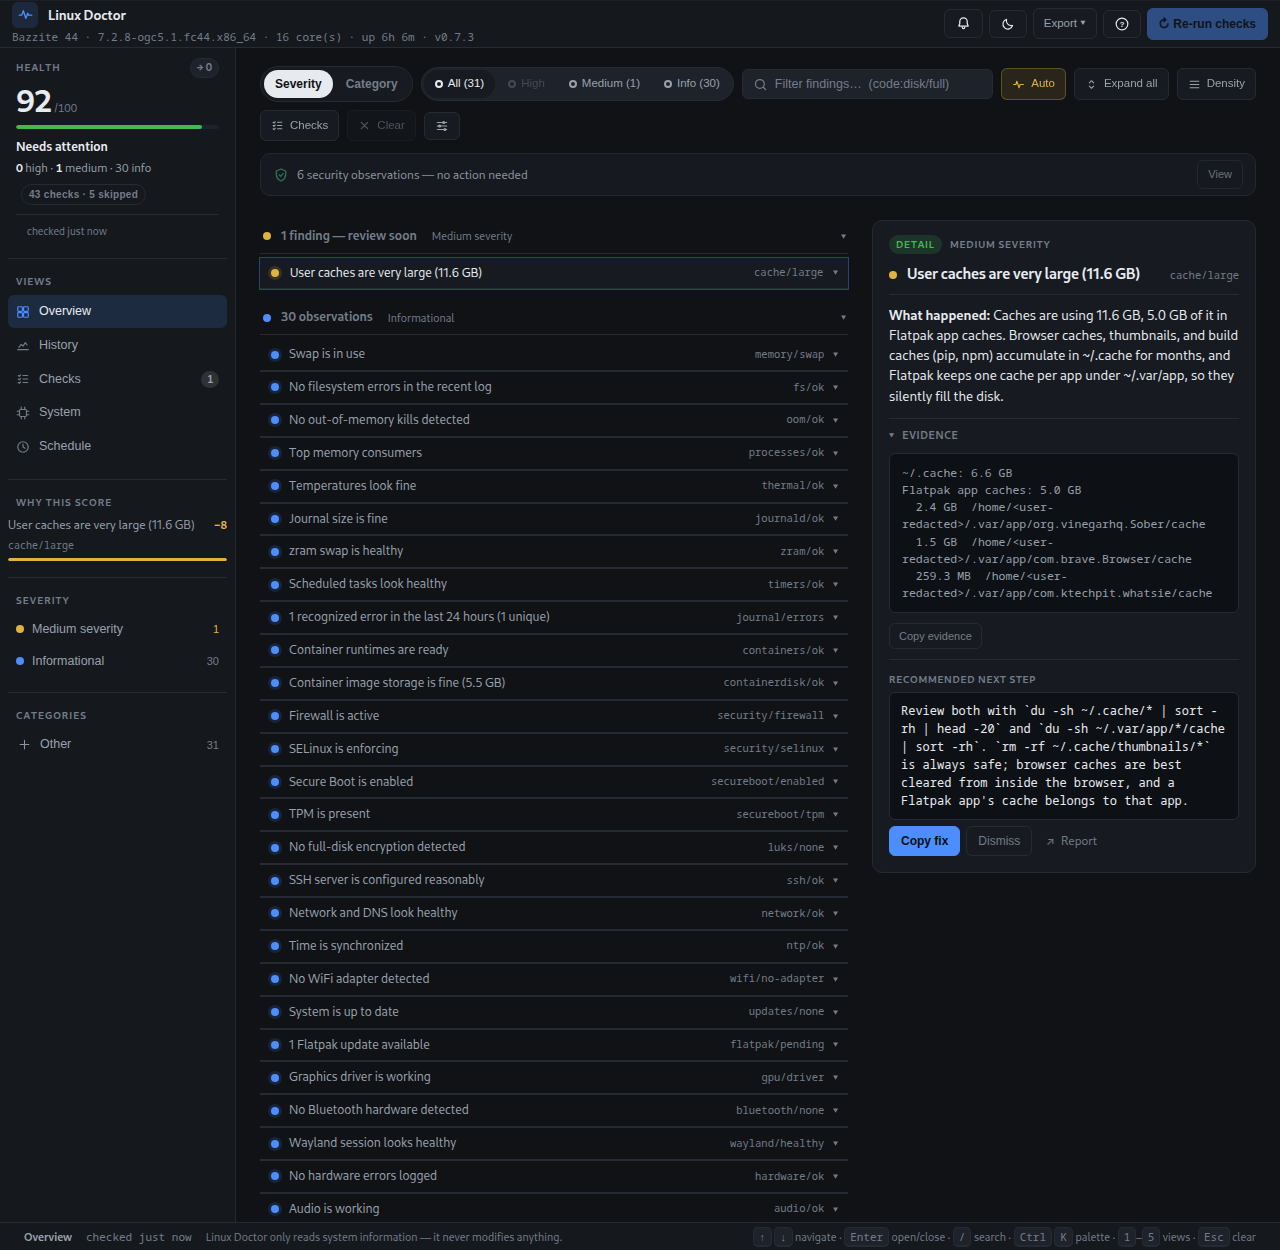
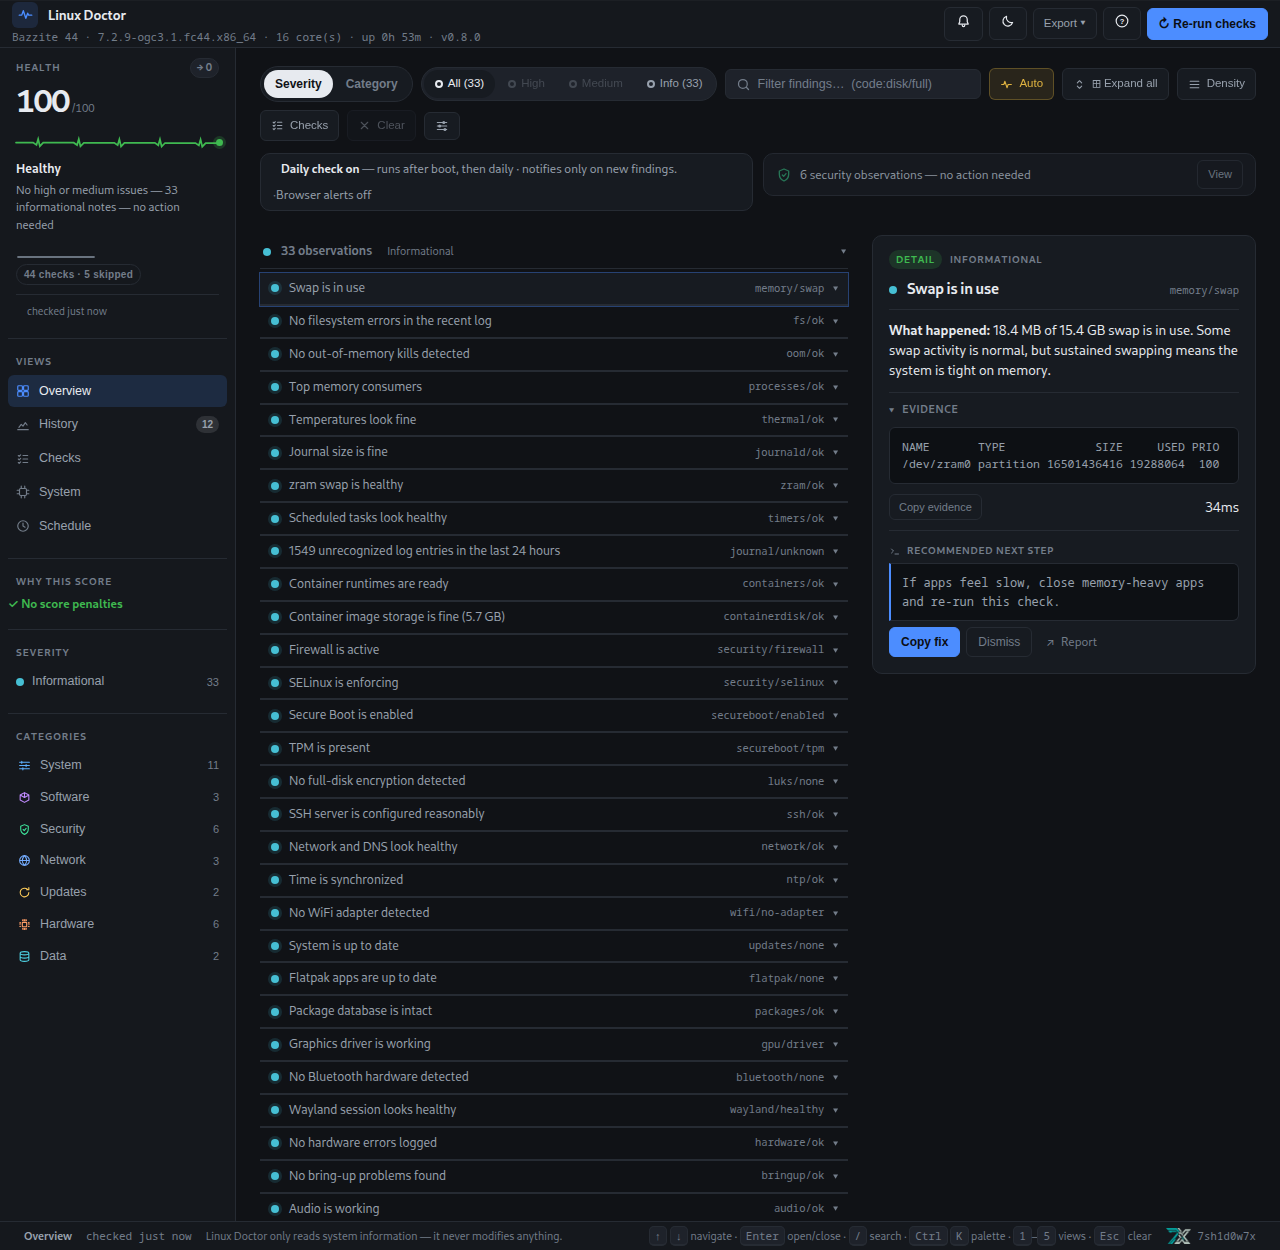
fix(packages): a depsolve that never finished, and a 4x faster Re-run
`packages` ran `dnf check` — a full depsolve of every installed package,
~15s on a 2900-package image — under the generic 8s command cap. On
Fedora systems the probe was killed and the check answered nothing at
all, while still costing the full 8s of every run.

It gets the package-manager budget now, so it can finish and tell the
truth. A clean depsolve is cached for ten minutes
(LINUX_DOCTOR_PACKAGES_TTL_MS; 0 disables) — bad news is never cached, so
a broken or locked database is re-probed on every run and a fix shows up
on the next click. The apt path probes the lock first, since a lock is a
live, seconds-long fact worth 40ms.

On immutable images (Bazzite, Silverblue, bootc) the depsolve is not run
at all: the package set is a signed, pre-solved image and rpm-ostree
refuses a transaction it cannot solve, so `dnf check` could only
re-confirm the image build. The check verifies the RPM database instead
and says so in its evidence. Real scans only — a stub runner never
touches the cache, so fixtures and tests stay independent of the host.

A full refresh on the reference machine: ~8.6s -> ~2.2s.

diff --git a/src/checks/packages.js b/src/checks/packages.js
@@ -1,7 +1,45 @@
 // SPDX-License-Identifier: GPL-3.0-or-later
-import { lines } from "../utils.js";
+import { lines, run as realRun, TIMEOUT_MS } from "../utils.js";
+import { readCache, writeCache } from "../cache.js";
 import { defineCheck } from "./define.js";
 import { finding } from "../findings.js";
+
+/**
+ * A full depsolve of every installed package — `dnf check` here takes ~15 s of
+ * CPU on a 2 900-package Fedora image, and `apt-get check` is the same kind of
+ * work. It is the single longest probe in a run: everything else finishes in
+ * under two seconds, so this one check decides how long "Re-run" takes.
+ *
+ * The answer only changes when a package transaction leaves the database
+ * inconsistent, so a CLEAN result is cached for 10 minutes (override
+ * LINUX_DOCTOR_PACKAGES_TTL_MS; 0 disables). Bad news is never cached: a
+ * broken or locked database is re-probed on every run, so a fix shows up on
+ * the next click instead of trailing a stale high for the length of the TTL.
+ * Same contract as the `updates` check's metadata cache — a bonus, never a
+ * dependency: an unwritable cache means the probe simply runs.
+ */
+const PACKAGES_CACHE_MS = 10 * 60 * 1000;
+
+function packagesCacheTtl() {
+  const ttl = Number(process.env.LINUX_DOCTOR_PACKAGES_TTL_MS || PACKAGES_CACHE_MS);
+  return Number.isFinite(ttl) && ttl > 0 ? ttl : 0;
+}
+
+/** Cache only a clean result; writeCache never throws. */
+function remember(findings, ttlMs) {
+  if (ttlMs && findings.every((f) => f.severity === "info")) writeCache("packages", findings);
+  return findings;
+}
+
+/**
+ * The cache is for real scans only. Tests and fixture replays hand the check a
+ * stub runner, and a cache shared with them would make their assertions depend
+ * on the developer's machine (and let a fixture's "healthy" land in the real
+ * cache). Identity against the imported runner is the one signal the check has.
+ */
+function cacheTtlFor(ctx) {
+  return ctx.run === realRun ? packagesCacheTtl() : 0;
+}
 
 /**
  * `apt-get check` refusing the dpkg frontend lock. These lines say nothing
@@ -52,24 +90,70 @@ export const packages = defineCheck({
   async run(ctx) {
     const findings = [];
     const { pkg, family } = ctx.dist || {};
+    const ttlMs = cacheTtlFor(ctx);
+    const cached = ttlMs ? readCache("packages", ttlMs) : null;
+
+    // Immutable / atomic systems (Bazzite, Silverblue, bootc): the installed
+    // package set is a signed, pre-solved image, and layered packages arrive
+    // through rpm-ostree, which refuses a transaction it cannot solve. A full
+    // depsolve of ~3 000 packages (`dnf check`, 15 s here) can only re-confirm
+    // what the image build already guaranteed — while being slow enough to hit
+    // the command cap and answer nothing at all. Verify the database itself,
+    // which takes half a second, and say exactly what was not run.
+    if (ctx.dist && ctx.dist.imageBased) {
+      if (cached) return cached;
+      const verify = await ctx.run("rpm --verifydb 2>&1");
+      if (!verify.ok) return findings; // unreadable database: claim nothing
+      findings.push(finding({
+        severity: "info",
+        code: "packages/ok",
+        title: "Package database is intact",
+        detail: "This is an immutable system: packages come from a pre-solved image and rpm-ostree refuses transactions it cannot solve, so the full dependency check is not run. The local RPM database verified clean.",
+        evidence: "rpm --verifydb: ok \u00b7 dependency check: not run on immutable systems",
+        fix: null,
+        confidence: "high",
+      }));
+      return remember(findings, ttlMs);
+    }
 
     // Debian/Ubuntu family
     if (pkg === "apt" || family === "debian") {
-      const [dpkgAudit, aptCheck, lockRes] = await Promise.all([
-        ctx.run("dpkg --audit 2>&1 | head -20"),
-        ctx.run("apt-get check 2>&1 | head -20"),
-        // Lock probe. Holders in our own process group are skipped: `apt-get
-      // check` below takes the same frontend lock, and the `updates` and
-      // `orphans` checks take it too, so a plain `fuser` reported linux-doctor
-      // as "another process". Run as root on a healthy machine that produced a
-      // medium "locked by another process" naming linux-doctor itself (#24).
-      // The probe reports groups and `foreignLockHolders` decides, so the rule
-      // is unit-testable instead of living in the shell's comparison semantics.
-      ctx.run(
+      // The lock is a live, seconds-long fact and costs ~40 ms, so it is
+      // probed before the cache lookup: a Re-run while apt is busy must say
+      // so even when the (cached) depsolve is still fresh.
+      const lockRes = await ctx.run(
+        // Holders in our own process group are skipped: `apt-get check` below
+        // takes the same frontend lock, and the `updates` and `orphans` checks
+        // take it too, so a plain `fuser` reported linux-doctor as "another
+        // process". Run as root on a healthy machine that produced a medium
+        // "locked by another process" naming linux-doctor itself (#24). The
+        // probe reports groups and `foreignLockHolders` decides, so the rule
+        // is unit-testable instead of living in the shell's comparison.
         "printf 'self %s\\n' \"$(ps -o pgid= -p $$ 2>/dev/null | tr -d ' ')\"; " +
           "for pid in $(fuser /var/lib/dpkg/lock /var/lib/dpkg/lock-frontend /var/lib/apt/lists/lock 2>/dev/null); do " +
           'printf \'%s %s\\n\' "$pid" "$(ps -o pgid= -p "$pid" 2>/dev/null | tr -d \' \')"; done'
-      ),
+      );
+      const holders = foreignLockHolders(lockRes.stdout);
+      if (lockRes.ok && holders.length > 0) {
+        findings.push(finding({
+          severity: "medium",
+          code: "packages/locked",
+          title: "Package manager is locked by another process",
+          detail: "Another apt/dpkg process is holding the package lock. Updates cannot run until it finishes.",
+          evidence: `lock held by PID ${holders.join(" ")}`,
+          fix: "Wait for the other apt process to finish, or if it is stuck, check `ps aux | grep -E 'apt|dpkg'` and close it.",
+          confidence: "medium",
+        }));
+        return findings;
+      }
+
+      if (cached) return cached;
+
+      const [dpkgAudit, aptCheck] = await Promise.all([
+        ctx.run("dpkg --audit 2>&1 | head -20"),
+        // A depsolve of every installed package: the default 8 s cap is the
+        // package-manager budget, not the generic one (see TIMEOUT_MS).
+        ctx.run("apt-get check 2>&1 | head -20", { timeoutMs: TIMEOUT_MS.PKGMGR }),
       ]);
 
       const auditOut = (dpkgAudit.stdout || "").trim();
@@ -111,23 +195,6 @@ export const packages = defineCheck({
         return findings;
       }
 
-      // A lock held by a process outside our own tree = apt is busy. Only the
-      // PIDs reach the evidence: `foreignLockHolders` returns PIDs, so nothing
-      // else can be printed as "held by".
-      const holders = foreignLockHolders(lockRes.stdout);
-      if (lockRes.ok && holders.length > 0) {
-        findings.push(finding({
-          severity: "medium",
-          code: "packages/locked",
-          title: "Package manager is locked by another process",
-          detail: "Another apt/dpkg process is holding the package lock. Updates cannot run until it finishes.",
-          evidence: `lock held by PID ${holders.join(" ")}`,
-          fix: "Wait for the other apt process to finish, or if it is stuck, check `ps aux | grep -E 'apt|dpkg'` and close it.",
-          confidence: "medium",
-        }));
-        return findings;
-      }
-
       // Check for dpkg interrupted flag
       const interrupted = await ctx.run("test -f /var/lib/dpkg/updates/tmp.i 2>/dev/null && echo interrupted; dpkg --audit 2>&1 | grep -q 'half-installed\\|unpacked' && echo half");
       if (interrupted.ok && interrupted.stdout.trim() !== "") {
@@ -154,16 +221,17 @@ export const packages = defineCheck({
         fix: null,
         confidence: "high",
       }));
-      return findings;
+      return remember(findings, ttlMs);
     }
 
     // Fedora/RHEL family — check dnf. (`rpm -Va` was run here too and its
     // result never used; two full rpmdb verifications were pure dead work
     // that almost always exceeded the timeout.)
     if (pkg === "dnf" || family === "fedora") {
+      if (cached) return cached;
       // No `| head`: the exit status would belong to head, so the guard below
       // could never fire and a failed dnf looked successful. Slice in JS.
-      const dnfCheck = await ctx.run("dnf check 2>&1");
+      const dnfCheck = await ctx.run("dnf check 2>&1", { timeoutMs: TIMEOUT_MS.PKGMGR });
       const out = String(dnfCheck.stdout || "");
       // An unprivileged dnf cannot create its cache. Its refusal was read as a
       // broken package database (high) on a healthy machine — the same false
@@ -196,7 +264,7 @@ export const packages = defineCheck({
         fix: null,
         confidence: "high",
       }));
-      return findings;
+      return remember(findings, ttlMs);
     }
 
     // Arch — check pacman DB

diff --git a/tests/checks-untested.test.js b/tests/checks-untested.test.js
@@ -125,8 +125,32 @@ const LOCK_PROBE =
   'printf \'%s %s\\n\' "$pid" "$(ps -o pgid= -p "$pid" 2>/dev/null | tr -d \' \')"; done';
 
 
-test("packages: a broken dpkg database is high", async () => {
-  const ctx = stubCtx({
+// Immutable/atomic systems (Bazzite, Silverblue, bootc) ship a pre-solved
+// image, so the full depsolve only re-confirms the image build — and at ~15 s
+// on a 2 900-package image it is slow enough to be killed by the command cap
+// and answer nothing at all. The check verifies the rpmdb instead, which is
+// fast, and says plainly that the dependency check was not run.
+const ATOMIC_OS = { id: "bazzite", id_like: "fedora", variant: "kinoite", image_version: "44" };
+
+test("packages: an immutable system verifies the rpmdb and names what it did not run", async () => {
+  const ctx = stubCtx({ "rpm --verifydb 2>&1": "" }, ATOMIC_OS);
+  const findings = await packages.run(ctx);
+  assert.equal(findings.length, 1);
+  assert.equal(findings[0].code, "packages/ok");
+  assert.equal(findings[0].severity, "info");
+  assert.match(findings[0].evidence, /rpm --verifydb: ok/);
+  assert.match(findings[0].evidence, /dependency check: not run/);
+});
+
+test("packages: an unreadable rpmdb on an immutable system claims nothing", async () => {
+  // No entry in the stub map means the command failed: the check must stay
+  // silent rather than report an intact database it never read.
+  const ctx = stubCtx({}, ATOMIC_OS);
+  const findings = await packages.run(ctx);
+  assert.deepEqual(findings, []);
+});
+
+test("packages: a broken dpkg database is high", async () => {  const ctx = stubCtx({
     "dpkg --audit 2>&1 | head -20": "The following packages are in a mess due to serious problems during installation:\n libfoo\n",
     "apt-get check 2>&1 | head -20": "",
     [LOCK_PROBE]: "",

diff --git a/CHANGELOG.md b/CHANGELOG.md
@@ -39,6 +39,16 @@ All notable changes to Linux Doctor are documented here. The format follows
   arrived while it was in flight awaited it and served that `undefined` as an
   empty body ("Unexpected end of JSON input"), and poisoned the cache with
   it. The scan now always resolves to the body string.
+- **A Re-run no longer waits on a depsolve that never finished.** `packages`
+  ran `dnf check` — a full depsolve of every installed package, ~15 s on a
+  2 900-package image — under the generic 8 s command cap, so on Fedora
+  systems it was killed and the check answered nothing at all. It now gets the
+  package-manager budget, caches a clean depsolve for ten minutes
+  (`LINUX_DOCTOR_PACKAGES_TTL_MS`; bad news is never cached), and on immutable
+  images (Bazzite, Silverblue, bootc) verifies the RPM database instead of
+  re-solving an image that was solved at build time — and says so in its
+  evidence. A full refresh on the reference machine went from ~8.6 s to
+  ~2.2 s.
 - **A Re-run could be swallowed by a background poll and record no
   history.** With stale-while-revalidate, the background scan and the blocking
   path shared one single-flight promise, so a Re-run that arrived while a
